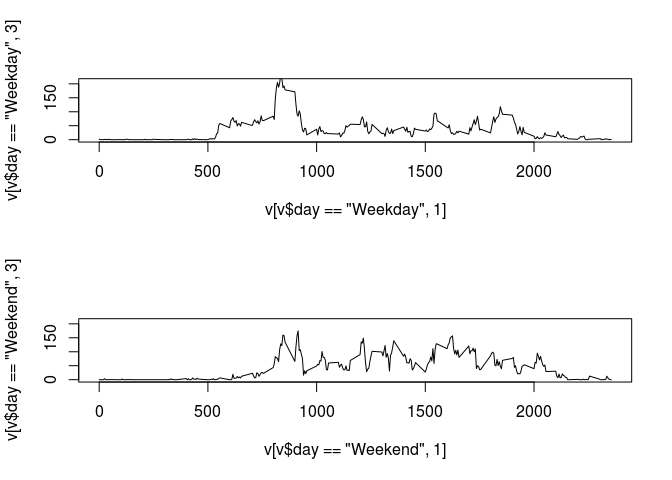
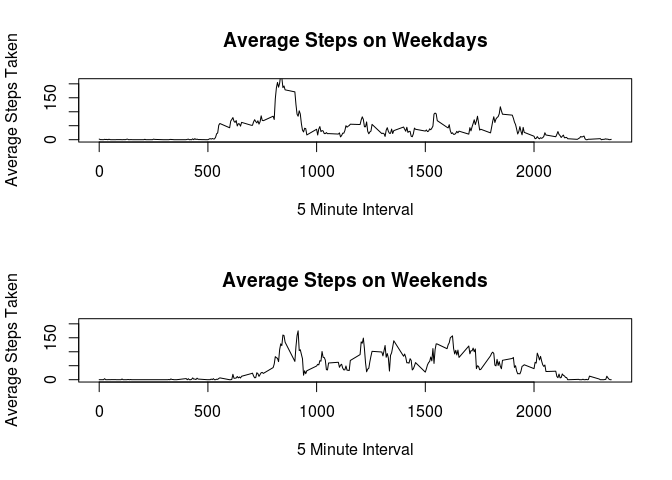
fourth commit

diff --git a/PA1_template.html b/PA1_template.html
@@ -67,13 +67,15 @@ img {
 <div id="loading-and-preprocessing-the-data" class="section level2">
 <h2>Loading and preprocessing the data</h2>
 <pre class="r"><code>library(plyr)
+#x is the dataset and z is the dataset with mean values per interval calculated
 read.csv('./activity.csv',header=TRUE,colClasses=c('integer','Date','integer'))-&gt;x
 
 z&lt;-ddply(x,'interval',summarise,mean(steps,na.rm=TRUE))</code></pre>
 </div>
 <div id="what-is-mean-total-number-of-steps-taken-per-day" class="section level2">
 <h2>What is mean total number of steps taken per day?</h2>
-<pre class="r"><code>y&lt;-ddply(x,&quot;date&quot;,summarise,sum(steps))
+<pre class="r"><code>#y is the dataset with the sum of steps per day calculated
+y&lt;-ddply(x,&quot;date&quot;,summarise,sum(steps))
 
 hist(y[,2],breaks=10,main=&quot;Frequency of Steps per Day&quot;,xlab=&quot;Total Number of Steps per Day&quot;)</code></pre>
[1 lines of base64/hex data omitted]
@@ -108,7 +110,7 @@ hist(u[,2],breaks=10,main=&quot;Frequency of Steps per Day&quot;,xlab=&quot;Tota
 <pre><code>## [1] 10766.19</code></pre>
 <pre class="r"><code>median(u[,2],na.rm=TRUE)</code></pre>
 <pre><code>## [1] 10766.19</code></pre>
-<p>write some information here</p>
+<p>Because the NA’s were filled in with the average values, the graph and mean values go unchanged, however the median changes slightly.</p>
 </div>
 <div id="are-there-differences-in-activity-patterns-between-weekdays-and-weekends" class="section level2">
 <h2>Are there differences in activity patterns between weekdays and weekends?</h2>
@@ -123,12 +125,11 @@ u$day&lt;-factor(u$day)
 
 v&lt;-ddply(u,c('interval','day'),summarise,mean(steps,na.rm=TRUE))
 
-
-
 par(mfrow=c(2,1))
-plot(v[v$day==&quot;Weekday&quot;,1],v[v$day==&quot;Weekday&quot;,3],type=&quot;l&quot;,xlim=c(0,2355),ylim=c(0,210))
-plot(v[v$day==&quot;Weekend&quot;,1],v[v$day==&quot;Weekend&quot;,3],type=&quot;l&quot;,xlim=c(0,2355),ylim=c(0,210))</code></pre>
[1 lines of base64/hex data omitted]
+
+plot(v[v$day==&quot;Weekday&quot;,1],v[v$day==&quot;Weekday&quot;,3],type=&quot;l&quot;,xlim=c(0,2355),ylim=c(0,210),xlab = &quot;5 Minute Interval&quot;,ylab=&quot;Average Steps Taken&quot;,main=&quot;Average Steps on Weekdays&quot;)
+plot(v[v$day==&quot;Weekend&quot;,1],v[v$day==&quot;Weekend&quot;,3],type=&quot;l&quot;,xlim=c(0,2355),ylim=c(0,210),xlab = &quot;5 Minute Interval&quot;,ylab=&quot;Average Steps Taken&quot;,main=&quot;Average Steps on Weekends&quot;)</code></pre>
[1 lines of base64/hex data omitted]
 </div>
 
 

diff --git a/PA1_template.md b/PA1_template.md
@@ -5,6 +5,7 @@
 
 ```r
 library(plyr)
+#x is the dataset and z is the dataset with mean values per interval calculated
 read.csv('./activity.csv',header=TRUE,colClasses=c('integer','Date','integer'))->x
 
 z<-ddply(x,'interval',summarise,mean(steps,na.rm=TRUE))
@@ -14,6 +15,7 @@ z<-ddply(x,'interval',summarise,mean(steps,na.rm=TRUE))
 ## What is mean total number of steps taken per day?
 
 ```r
+#y is the dataset with the sum of steps per day calculated
 y<-ddply(x,"date",summarise,sum(steps))
 
 hist(y[,2],breaks=10,main="Frequency of Steps per Day",xlab="Total Number of Steps per Day")
@@ -101,7 +103,7 @@ median(u[,2],na.rm=TRUE)
 ## [1] 10766.19
 ```
 
-write some information here
+Because the NA's were filled in with the average values, the graph and mean values go unchanged, however the median changes slightly.
 
 
 ## Are there differences in activity patterns between weekdays and weekends?
@@ -119,11 +121,10 @@ u$day<-factor(u$day)
 
 v<-ddply(u,c('interval','day'),summarise,mean(steps,na.rm=TRUE))
 
-
-
 par(mfrow=c(2,1))
-plot(v[v$day=="Weekday",1],v[v$day=="Weekday",3],type="l",xlim=c(0,2355),ylim=c(0,210))
-plot(v[v$day=="Weekend",1],v[v$day=="Weekend",3],type="l",xlim=c(0,2355),ylim=c(0,210))
+
+plot(v[v$day=="Weekday",1],v[v$day=="Weekday",3],type="l",xlim=c(0,2355),ylim=c(0,210),xlab = "5 Minute Interval",ylab="Average Steps Taken",main="Average Steps on Weekdays")
+plot(v[v$day=="Weekend",1],v[v$day=="Weekend",3],type="l",xlim=c(0,2355),ylim=c(0,210),xlab = "5 Minute Interval",ylab="Average Steps Taken",main="Average Steps on Weekends")
 ```
 
 ![](PA1_template_files/figure-html/unnamed-chunk-10-1.png) 
